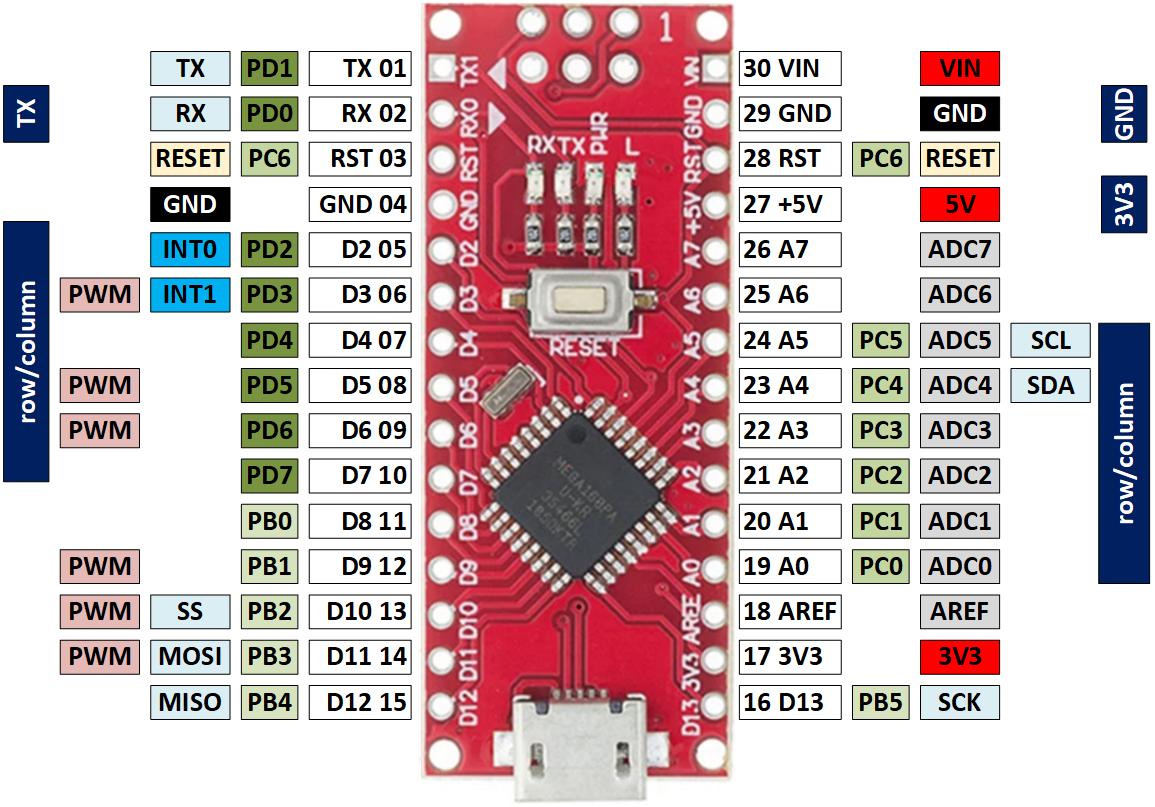
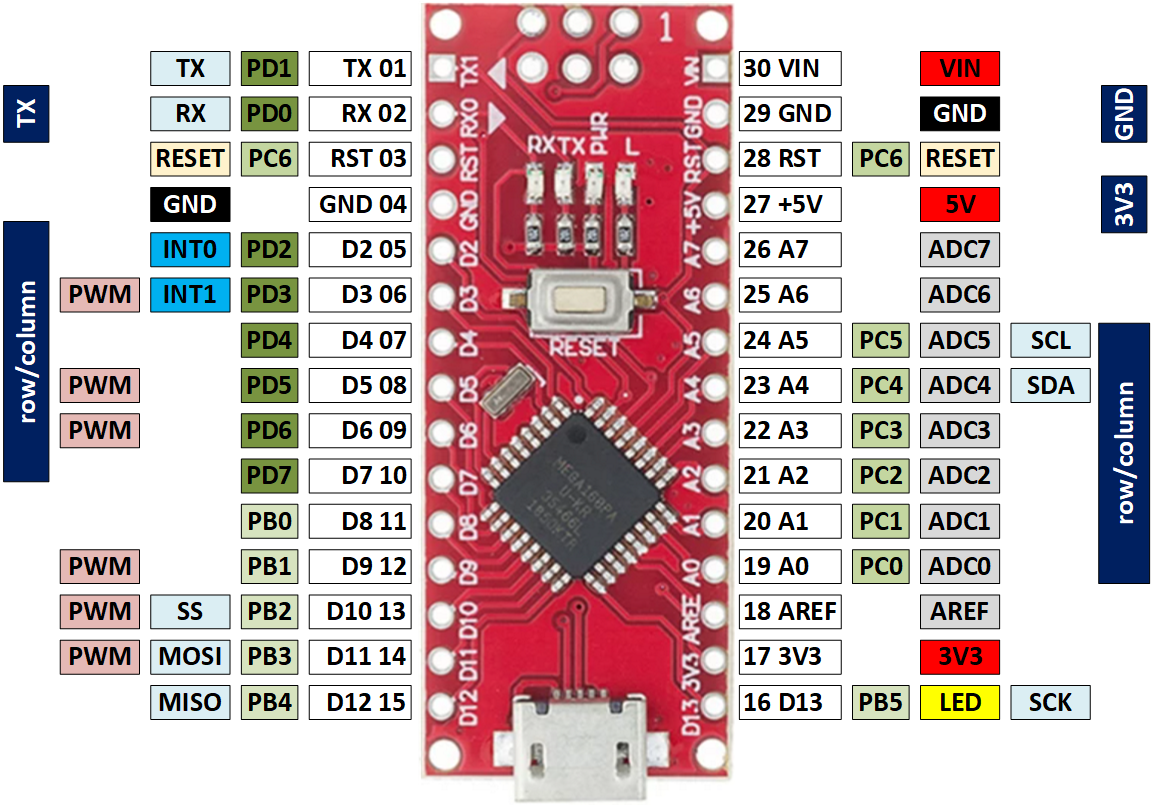
adds PoC2

diff --git a/firmware/readme.md b/firmware/readme.md
@@ -2,7 +2,97 @@
 
 The firmware for the Arduino Nano, the controller on the SSoS board.
 
-A first proof-pf-concept Arduino [sketch](poc1) is available.
+
+## Proof of Concept 1 - SFRs
+
+A first proof-of-concept Arduino [sketch](poc1) is available.
+It tests
+ - Direct SFR writes
+ - Timing (5ms per unit cause no visible flicker, this is 20ms per frame, or 50Hz)
+ - Receiving data to print via Serial
+ - Having a font
+
+Using SFRs (Special Function Registers) means accessing hardware registers
+that control the IO pins. Instead of calling `digitalWrite()`, we call
+`PORTC=...`. Not only saves this the function call overhead, more importantly,
+with one write to PORTC, we set up to 8 IO pins in one go.
+
+See the [datasheet](https://ww1.microchip.com/downloads/en/DeviceDoc/ATmega48P_88P_168P-DS40002065A.pdf?page=102) at page 102.
+
+
+## Proof of Concept 2 - Timer and ISR
+
+A second proof-of-concept Arduino [sketch](poc2) is available.
+It tests using a timer to fire an ISR every 1ms.
+
+Notes:
+ - The ATmega168 has 3 timers: timer0, timer1 and timer2. 
+ - All timers depend on the system clock, normally that is 16MHz, but there is a pre-scaler.
+ - Timer0 is an 8bit timer; in Arduino it is used for e.g. `delay()` and `millis()`.
+ - Timer1 is a 16bit timer; in Arduino it seems to be used for the Servo library.
+ - Timer2 is an 8bit timer; in Arduino it seems to be used for `tone()`. PoC2 uses this one.
+
+There is a fair bit of standardization by microchip in naming.
+The register names but also the bitfields in the registers are introduced in the 
+[datasheet](https://ww1.microchip.com/downloads/en/DeviceDoc/ATmega48P_88P_168P-DS40002065A.pdf?page=155) on page 155.
+The names are also available in the Arduino header files.
+In the case of the ATmega168, here is the header (on my windows PC)
+`C:\Program Files (x86)\Arduino\hardware\tools\avr\avr\include\avr\iom168p.h`.
+
+In the names below, replace `n` with the timer index (0, 1, or 2) - again, we use 2.
+```
+TCCRnA with bits      COMnA1 COMnA0 COMnB1 COMnB0 ----- -----  WGMn1  WGMn0
+TCCRnB with bits      FOCnA  FOCnB  -----  -----  WGMn2 CSn2   CSn1   CSn0
+TCNTn  bits not named
+OCRnA  bits not named
+OCRnB  bits not named
+TIMSK2                -----  -----  -----  -----  ----- OCIEnB OCIEnA TOIEn
+TIFR2                 -----  -----  -----  -----  ----- OCFnB  OCFnA  TOVn
+```
+
+With registers `TCCR2A` and `TCCR2B` we set the mode (Clear Timer on Compare Match: `WGM2=010`)
+and the prescaler (64 with Clock Select: `CS2=100`). 
+The `TCNT2` is the actual counter, we do not read or write it (but the hardware does).
+
+With `OCR2A` we set the value to which we want the timer to count, generate and interrupt, and clear.
+Since the sustem clock (`F_CPU`) is 16MHz, and the pre-scaler is 64, timer 2 is fed with a frequency of 250 000 Hz, so it will increment
+every 4us. Therefore we need 250 increments for an interrupt every 1ms. Therefore we need to set `OCR2A` to 249 (because it starts counting at 0).
+
+In `TIMSK2` we set `OCIE2A`, i.e. Interrupt Enable for Output Compare Match A.
+This means that we have to install an ISR for ` TIMER2_COMPA_vect`.
+
+See e.g. [Arduino 101: Timers and Interrupts](https://www.robotshop.com/community/forum/t/arduino-101-timers-and-interrupts/13072).
+or [instructables](https://www.instructables.com/Arduino-Timer-Interrupts/).
+
+```c
+void setup() {
+  // Setup builtin LED (it is on D13 = PB5)
+  DDRB  = 1<<5; // pin PB5 as output
+
+  // Setup timer2
+  noInterrupts(); // Disable all interrupts - cli()
+  TCCR2A = 0; // Do not understand why, but without first setting to 0, we get 4.063us instead of 1ms
+  // Set Output Compare Register A for 1kHz (1ms)
+  OCR2A = 16000000/*CPU*/  /  64/*prescaler*/  /  1000/*targetfreq*/  -  1;
+  // Turn on CTC mode (Clear Timer on Compare Match) WGM2[210]=010 (so we only set WGM21)
+  TCCR2A = 1 << WGM21;
+  // Select prescaler of 64 with Clock Select CS2[210]=100 (so we only set CS22)
+  TCCR2B = 1 << CS22;   
+  // Enable timer compare interrupt
+  TIMSK2 = 1 << OCIE2A;
+  interrupts(); // Re-enable all interrupts - sei()
+}
+
+ISR( TIMER2_COMPA_vect ) {
+  PORTB |= 1<<5; // ON
+  PORTB &= ~(1<<5); // OFF
+}
+```
+
+The logic analyzer shows the PoC2 is successful:
+
+![ISR 1ms](isr1ms.png)
+
 
 (end)
 
